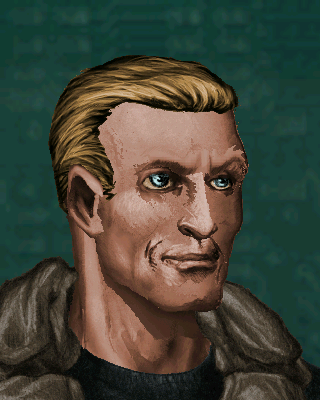
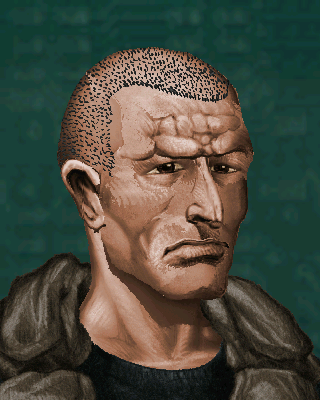
new lib added and shuffling algorithm

diff --git a/app/scripts/app/game.js b/app/scripts/app/game.js
@@ -3,13 +3,16 @@ define(["./items/card.js", "./items/animations.js"], (Card, Animation) => {
     state: "loading",
     cards: [],
     activeCards: [],
+    randomNumbers: [],
     cardAmount: 0,
-    intervalId: null,
     loadedCards: 0,
+    intervalId: null,
 
     init: function() {
       this.listenToStateChange();
       this.attachListeners();
+      this.populateRandomNumbersArray(8);
+      this.shuffleRandomNumbersArray();
     },
     attachListeners: function() {
       this.attachListenerBtn16();
@@ -135,6 +138,25 @@ define(["./items/card.js", "./items/animations.js"], (Card, Animation) => {
       const length = this.cards.length;
       for (i = 0; i < length; i++) {
         this.appendToDeck(this.cards[i].domElement);
+      }
+    },
+    populateRandomNumbersArray: function(max) {
+      for (let i = 0; i < max; i++) {
+        this.randomNumbers.push(i);
+      }
+    },
+    shuffleRandomNumbersArray: function() {
+      let max = this.randomNumbers.length - 1;
+      const length = this.randomNumbers.length;
+
+      while (max > 0) {
+        const rIndex = Math.floor(Math.random() * length),
+          mNumber = this.randomNumbers[max],
+          rNumber = this.randomNumbers[rIndex];
+
+        this.randomNumbers[max] = rNumber;
+        this.randomNumbers[rIndex] = mNumber;
+        max--;
       }
     }
   };

diff --git a/app/scripts/app/items/card.js b/app/scripts/app/items/card.js
@@ -3,6 +3,7 @@ define(() => {
     this.domElement = domElement;
     this.cardState = "hidden";
     this.id = id;
+    this.imageUrl;
   }
 
   Card.prototype.setToVisible = function() {
@@ -23,12 +24,18 @@ define(() => {
     });
   };
 
+  Card.prototype.setImageUrl = function(index) {
+    this.imageUrl = `../img/faces/face_0${index}.png`;
+  };
+
   return {
     createCard: function() {
       const cardDomElement = document.createElement("DIV");
       cardDomElement.classList.add("deck__card");
       cardDomElement.classList.add("deck__card--hidden");
+
       return new Card(cardDomElement, new Date().valueOf());
-    }
+    },
+    generateUniqueRandomNumber: function() {}
   };
 });

diff --git a/app/scripts/app/libs/pseudoElements.js b/app/scripts/app/libs/pseudoElements.js
@@ -1,0 +1,20 @@
+(function() {
+  a = {
+    _b: 0,
+    c: function() {
+      this._b++;
+      return this.b;
+    }
+  };
+  HTMLElement.prototype.pseudoStyle = function(d, e, f) {
+    var g = "pseudoStyles";
+    var h = document.head || document.getElementsByTagName("head")[0];
+    var i = document.getElementById(g) || document.createElement("style");
+    i.id = g;
+    var j = "pseudoStyle" + a.c();
+    this.className += " " + j;
+    i.innerHTML += " ." + j + ":" + d + "{" + e + ":" + f + "}";
+    h.appendChild(i);
+    return this;
+  };
+})();

diff --git a/app/index.html b/app/index.html
@@ -7,6 +7,7 @@
   <meta name="author" content="Ernest Rudnicki" />
   <meta name="viewport" content="width=device-width, initial-scale=1.0" />
   <link rel="stylesheet" type="text/css" href="./css/styles.css" />
+  <script src="scripts/app/libs/pseudoElements.js"></script>
 </head>
 
 <body>

diff --git a/app/css/styles.css b/app/css/styles.css
@@ -139,7 +139,7 @@ h1 {
   background-size: 100% 100%;
 }
 .deck__card::before {
-  background: url("../img/faces/face_01.png");
+  background: url("../img/faces/face_00.png");
   background-repeat: no-repeat;
   background-size: 100% 100%;
   transform: rotateY(180deg);
